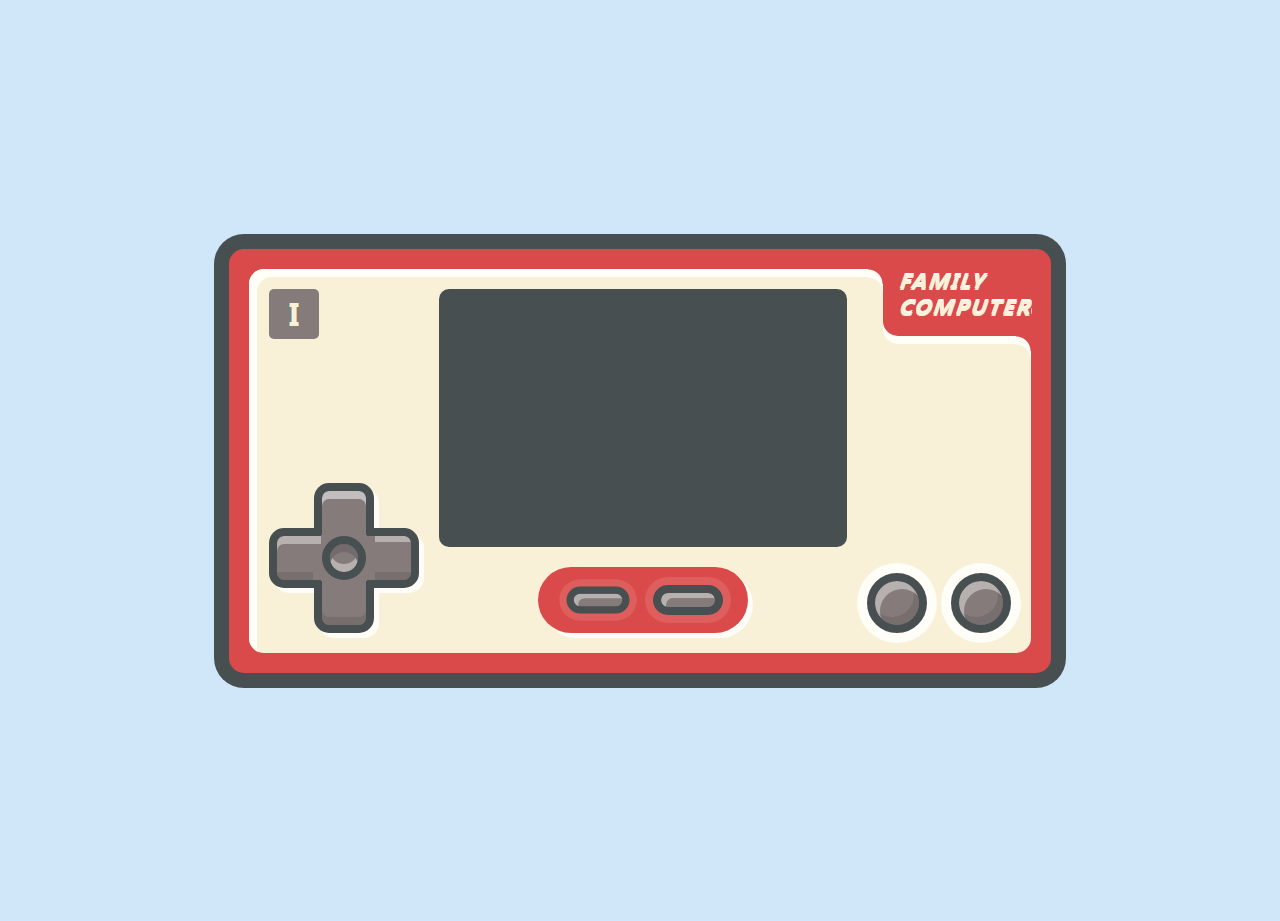
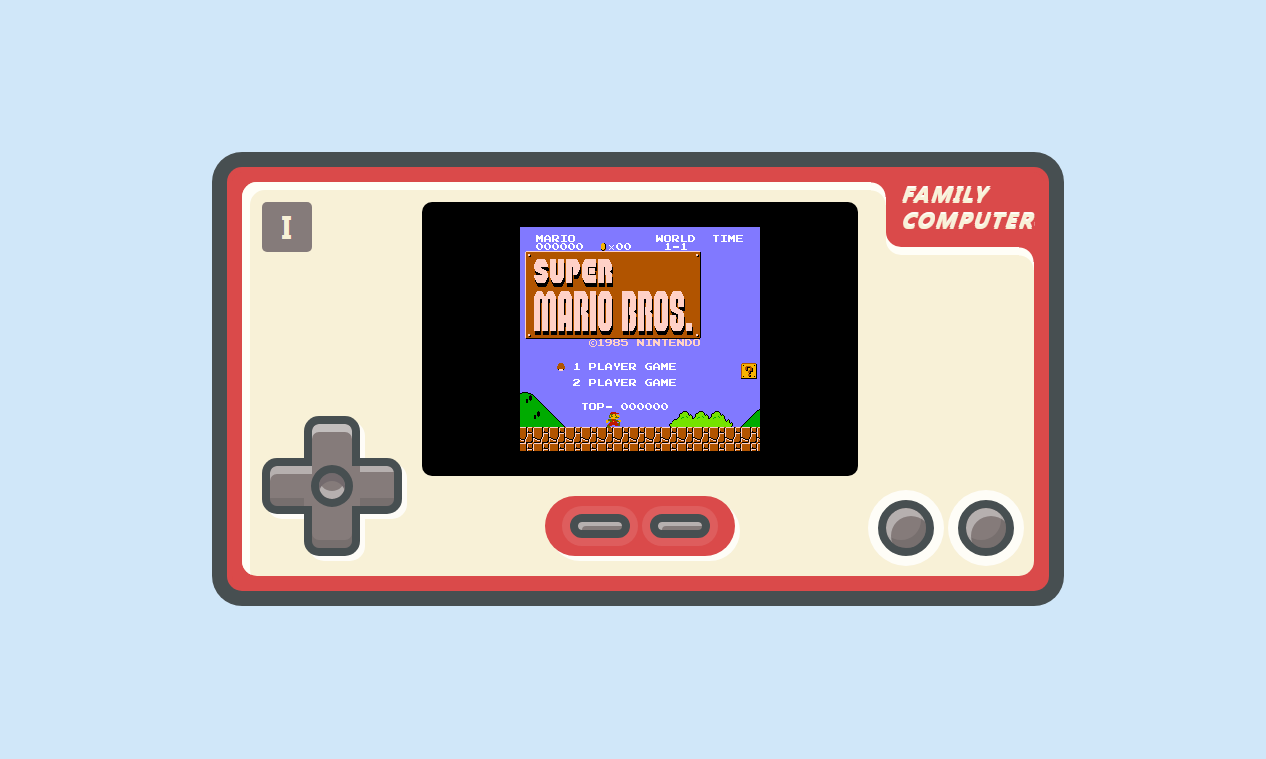
update readme.md

Changed region(s): [[0.154, 0.1818, 0.8626, 0.8182]]

diff --git a/README.md b/README.md
@@ -1,4 +1,34 @@
 # NintendoNes
 a NintendoNes monitor for web based on [jsnes](https://github.com/bfirsh/jsnes)
 
+two styles for PC and mobile phone.
+
+[demo](https://web.codelabo.cn/NintendoNes/)
+
+## screeshot
+
+**PC**
+
 ![nes](./screenshot/nes.png)
+
+**mobile-portrait**
+
+![nes](./screenshot/nes-portrait.png)
+
+**mobile-landscape**
+
+![nes](./screenshot/nes-landscape.png)
+
+## key Map for PC
+
+**player 1**
+
+|PC|Nes|desc|
+|---|---|---|
+|`W`|`BUTTON_UP`|move up|
+|`S`|`BUTTON_DOWN`|move down|
+|`A`|`BUTTON_LEFT`|move left|
+|`D`|`BUTTON_RIGHT`|move right|
+|`I`,`J`|`BUTTON_B`|attack|
+|`Tab`|`BUTTON_SELECT`|select model|
+|`Backspace`|`BUTTON_START`|start or pause|
